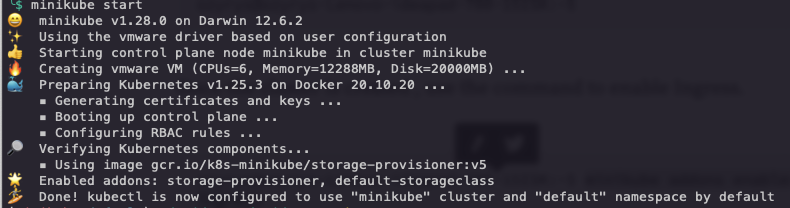
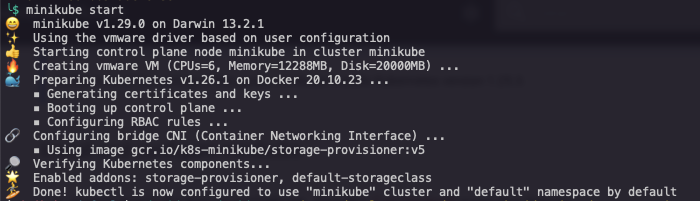
updating documents to reflect latest versions (#471)

Changed region(s): [[0.0, 0.0, 0.99, 1.0]]

diff --git a/docs/deployment/deployLocalOpenshift.md b/docs/deployment/deployLocalOpenshift.md
@@ -15,15 +15,15 @@ title: Deploy a Local Openshift Cluster
 Some customers are using Openshift as their platform for running Ping containerized applications.  If this is the case, access to an Openshift cluster is assumed.  Even in those cases, there are times where a local implementation of Openshift for development and testing is convenient.  
 
 !!! note "Platform"
-    For this guide, the Apple MacBook Pro platform is used, and the release of the _Red Hat Openshift Local_ offering is version 2.13.1
+    For this guide, the Apple MacBook Pro platform is used, and the release of the _Red Hat Openshift Local_ offering is version 2.15.0
 
-The [Openshift Local](https://access.redhat.com/documentation/en-us/red_hat_openshift_local/2.13) offering is used in this guide. This page was derived from the [documentation](https://access.redhat.com/documentation/en-us/red_hat_openshift_local/2.13/html/getting_started_guide/index) provided by Red Hat along with a workaround to a bug that has not yet been addressed regarding the Openshift client on the Apple Mac platform.
+The [Openshift Local](https://access.redhat.com/documentation/en-us/red_hat_openshift_local/2.15) offering is used in this guide. This page was derived from the [documentation](https://access.redhat.com/documentation/en-us/red_hat_openshift_local/2.15/html/getting_started_guide/index) provided by Red Hat along with a workaround to a bug that has not yet been addressed regarding the Openshift client on the Apple Mac platform.
 
 ## Prerequisites
 
 * Entitlement for Openshift code.  If you have registered for the Red Hat developer program, you can obtain your entitlement for the free trial [from the portal](https://developers.redhat.com/products/openshift/download) after logging in.
 * [kubectl](https://kubernetes.io/docs/tasks/tools/#kubectl)
-* [Openshift client (oc)](https://access.redhat.com/documentation/en-us/openshift_container_platform/4.11/html-single/cli_tools/index#cli-getting-started)
+* [Openshift client (oc)](https://access.redhat.com/documentation/en-us/openshift_container_platform/4.12/html-single/cli_tools/index#cli-getting-started)
 * ports 80, 443 and 6443 available on machine. If you have Docker Desktop installed, you must either disable Kubernetes or stop Docker in order for the installation to work.
 * **sudo** privileges on your hosting environment
 
@@ -34,6 +34,15 @@ The [Openshift Local](https://access.redhat.com/documentation/en-us/red_hat_open
 1. With the `crc` utility installed, configure settings.  Provide as much RAM and CPU as you can, depending on your system.  In this example, 16 GB of RAM, 7 vCPUs, and a disk size of 80GB are set.  The consent-telemetry is optional, depending on whether you consent to usage data metrics being sent to Red Hat.
 
     ```txt
+    # Version information
+    crc version
+
+    # Output
+    CRC version: 2.15.0+72256c3c
+    OpenShift version: 4.12.5
+    Podman version: 4.3.1
+
+    # Set configuration
     crc config set memory 16384
     crc config set cpus 7
     crc config set consent-telemetry no
@@ -54,25 +63,24 @@ The [Openshift Local](https://access.redhat.com/documentation/en-us/red_hat_open
     crc setup
 
     # Output
-    INFO Using bundle path /Users/davidross/.crc/cache/crc_vfkit_4.11.18_amd64.crcbundle
+    INFO Using bundle path https://storage.googleapis.com/crc-bundle-github-ci/4.12.5/crc_vfkit_4.12.5_amd64.crcbundle
     INFO Checking if running as non-root
     INFO Checking if crc-admin-helper executable is cached
-    INFO Checking for obsolete admin-helper executable
     INFO Checking if running on a supported CPU architecture
     INFO Checking minimum RAM requirements
     INFO Checking if crc executable symlink exists
-    INFO Creating symlink for crc executable
     INFO Checking if running emulated on a M1 CPU
     INFO Checking if vfkit is installed
     INFO Checking if CRC bundle is extracted in '$HOME/.crc'
-    INFO Checking if /Users/davidross/.crc/cache/crc_vfkit_4.11.18_amd64.crcbundle exists
+    INFO Checking if https://storage.googleapis.com/crc-bundle-github-ci/4.12.5/crc_vfkit_4.12.5_amd64.crcbundle exists
     INFO Getting bundle for the CRC executable
-    INFO Downloading bundle: /Users/davidross/.crc/cache/crc_vfkit_4.11.18_amd64.crcbundle...
-    3.15 GiB / 3.15 GiB [------------------------------------------] 100.00% 46.12 MiB p/s
-    INFO Uncompressing /Users/davidross/.crc/cache/crc_vfkit_4.11.18_amd64.crcbundle
-    crc.img: 31.00 GiB / 31.00 GiB [-------------------------------] 100.00%
+    INFO Downloading bundle: https://storage.googleapis.com/crc-bundle-github-ci/4.12.5/crc_vfkit_4.12.5_amd64.crcbundle...
+    3.07 GiB / 3.07 GiB [--------------------------------------------------------------->] 99.88% 11.39 MiB p/s
+    INFO Uncompressing /Users/davidross/.crc/cache/crc_vfkit_4.12.5_amd64.crcbundle
+    crc.img:  31.00 GiB / 31.00 GiB [-----------------------------------------------------------------] 100.00%
     INFO Checking if old launchd config for tray and/or daemon exists
     INFO Checking if crc daemon plist file is present and loaded
+    INFO Adding crc daemon plist file and loading it
     Your system is correctly setup for using CRC. Use 'crc start' to start the instance
     ```
 
@@ -85,7 +93,6 @@ The [Openshift Local](https://access.redhat.com/documentation/en-us/red_hat_open
  
     INFO Checking if running as non-root
     INFO Checking if crc-admin-helper executable is cached
-    INFO Checking for obsolete admin-helper executable
     INFO Checking if running on a supported CPU architecture
     INFO Checking minimum RAM requirements
     INFO Checking if crc executable symlink exists
@@ -93,11 +100,11 @@ The [Openshift Local](https://access.redhat.com/documentation/en-us/red_hat_open
     INFO Checking if vfkit is installed
     INFO Checking if old launchd config for tray and/or daemon exists
     INFO Checking if crc daemon plist file is present and loaded
-    INFO Loading bundle: crc_vfkit_4.11.18_amd64...
-    INFO Creating CRC VM for openshift 4.11.18...
+    INFO Loading bundle: crc_vfkit_4.12.5_amd64...
+    INFO Creating CRC VM for openshift 4.12.5...
     INFO Generating new SSH key pair...
     INFO Generating new password for the kubeadmin user
-    INFO Starting CRC VM for openshift 4.11.18...
+    INFO Starting CRC VM for openshift 4.12.5...
     INFO CRC instance is running with IP 127.0.0.1
     INFO CRC VM is running
     INFO Updating authorized keys...
@@ -135,24 +142,24 @@ The [Openshift Local](https://access.redhat.com/documentation/en-us/red_hat_open
     ERRO Cluster is not ready: cluster operators are still not stable after 10m0.746213711s
     INFO Adding crc-admin and crc-developer contexts to kubeconfig...
     Started the OpenShift cluster.
-    
+
     The server is accessible via web console at:
       https://console-openshift-console.apps-crc.testing
-    
+
     Log in as administrator:
       Username: kubeadmin
       Password: 3hT2A-JJv5U-VAJia-RNpSs
-    
+
     Log in as user:
       Username: developer
       Password: developer
-    
+
     Use the 'oc' command line interface:
       $ eval $(crc oc-env)
       $ oc login -u developer https://api.crc.testing:6443
     ```
 
-    Depending on the speed of your system, this will take 8 to 15 minutes.  There is a 10 minute timeout on checking the stability of operators deployed by Openshift.  It might be the case that the tool reports these have not reached full stability in that window.  In the writing of this guide, no issues were found using Openshift deployed in this manner, even if the error occurs.  Each time these steps were tested, everything eventually reached a healthy status, but just not in the window expected.  You can see this error at the end of the output displayed above (Cluster is not ready).
+    Depending on the speed of your system, this will take 8 to 15 minutes.  There is a 10 minute timeout on checking the stability of operators deployed by Openshift.  It might be the case that the tool reports these have not reached full stability in that window.  In the writing of this guide, no issues were found using Openshift deployed in this manner, even if the error occurs.  Each time these steps were tested, everything eventually reached a healthy status, but just not in the window expected on some occasions.  You can see this error at the end of the output displayed above (`Cluster is not ready`).
 
 ### Mac bug workaround
 
@@ -167,7 +174,7 @@ The [Openshift Local](https://access.redhat.com/documentation/en-us/red_hat_open
 
     The workaround to this error is to trust two certificates in the Apple Keychain Access utility.
 
-2.  Login to the web console as **kubeadmin**, using the credentials displayed when starting the instance.  If necessary, you can run `crc console --credentials` to display them again.  The console url is [https://console-openshift-console.apps-crc.testing](https://console-openshift-console.apps-crc.testing).
+2. Login to the web console as **kubeadmin**, using the credentials displayed when starting the instance.  If necessary, you can run `crc console --credentials` to display them again.  The console url is [https://console-openshift-console.apps-crc.testing](https://console-openshift-console.apps-crc.testing).
 
     * In the web console, select the **Administrator** role from the top of the left navigation bar.
     * Navigate to **Workloads** > **Secrets** and filter for **external-loadbalancer-serving-certkey**.  It will be in the **openshift-kube-api** server project (namespace).

diff --git a/docs/get-started/getStartedExample.md b/docs/get-started/getStartedExample.md
@@ -7,7 +7,7 @@ title: Deploy an Example Stack
     A video demonstration of this example is available [here](https://videos.pingidentity.com/detail/videos/devops/video/6313575361112/getting-started-walkthrough).
 
 !!! note "Version"
-    This example was written using Docker Desktop with Kubernetes enabled on the Mac platform.  The version used for this guide was `4.16.1 (95567)`, which includes Docker Engine `v20.10.22` and Kubernetes `v1.25.4`.  The ingress-nginx controller version was `1.5.1`.
+    This example was written using Docker Desktop with Kubernetes enabled on the Mac platform.  The version used for this guide was `4.17.0 (99724)`, which includes Docker Engine `v20.10.23` and Kubernetes `v1.25.4`.  The ingress-nginx controller version was `1.6.4`.
 
 !!! note "Kubernetes Services Kubernetes versus Server-Deployed Applications"
 
@@ -106,8 +106,9 @@ After using Git to clone the `pingidentity-devops-getting-started` repository, y
         Sample output:
 
          ```text
+         Release "demo" does not exist. Installing it now.
          NAME: demo
-         LAST DEPLOYED: Tue Jan 17 09:18:49 2023
+         LAST DEPLOYED: Tue Mar 14 13:42:13 2023
          NAMESPACE: pinghelm
          STATUS: deployed
          REVISION: 1
@@ -116,30 +117,30 @@ After using Git to clone the `pingidentity-devops-getting-started` repository, y
          #-------------------------------------------------------------------------------------
          # Ping DevOps
          #
-         # Description: Ping Identity helm charts - 1/03/2023
+         # Description: Ping Identity helm charts - 3/03/2023
          #-------------------------------------------------------------------------------------
          #
          #           Product          tag   typ  #  cpu R/L   mem R/L  Ing
          #    --------------------- ------- --- -- --------- --------- ---
-         #    global                2212              0/0       0/0     √ 
+         #    global                2302              0/0       0/0     √
          #
-         #  √ pingaccess-admin      2212               /         /        
-         #  √ pingaccess-engine     2212               /         /        
-         #  √ pingauthorize         2212               /         /        
-         #    pingauthorizepap                                            
-         #    pingcentral                                                 
-         #  √ pingdataconsole       2212               /         /        
-         #    pingdatasync                                                
-         #    pingdelegator                                               
-         #  √ pingdirectory         2212               /         /        
-         #    pingdirectoryproxy                                          
-         #  √ pingfederate-admin    2212               /         /        
-         #  √ pingfederate-engine   2212               /         /        
-         #    pingintelligence                                            
+         #  √ pingaccess-admin      2302    sts  1    0/2     1Gi/4Gi   √
+         #  √ pingaccess-engine     2302    dep  1    0/2     1Gi/4Gi   √
+         #  √ pingauthorize         2302    dep  1    0/2    1.5G/4Gi   √
+         #    pingauthorizepap
+         #    pingcentral
+         #  √ pingdataconsole       2302    dep  1    0/2    .5Gi/2Gi   √
+         #    pingdatasync
+         #    pingdelegator
+         #  √ pingdirectory         2302    sts  1  50m/2     2Gi/8Gi   √
+         #    pingdirectoryproxy
+         #  √ pingfederate-admin    2302    dep  1    0/2     1Gi/4Gi   √
+         #  √ pingfederate-engine   2302    dep  1    0/2     1Gi/4Gi   √
+         #    pingintelligence
          #
-         #    ldap-sdk-tools                                              
-         #    pd-replication-timing                                       
-         #    pingtoolkit                                                 
+         #    ldap-sdk-tools
+         #    pd-replication-timing
+         #    pingtoolkit
          #
          #-------------------------------------------------------------------------------------
          # To see values info, simply set one of the following on your helm install/upgrade
@@ -147,7 +148,7 @@ After using Git to clone the `pingidentity-devops-getting-started` repository, y
          #    --set help.values=all         # Provides all (i.e. .Values, .Release, .Chart, ...) yaml
          #    --set help.values=global      # Provides global values
          #    --set help.values={ image }   # Provides image values merged with global
-         #-------------------------------------------------------------------------------------        
+         #-------------------------------------------------------------------------------------
          ```
 
         As you can see, PingAccess Admin and Engine, PingData Console, PingDirectory, PingAuthorize, and the PingFederate Admin and Engine are deployed from the provided `everything.yaml` values file.

diff --git a/docs/deployment/deployLocalK8sCluster.md b/docs/deployment/deployLocalK8sCluster.md
@@ -151,14 +151,14 @@ In this section, a minikube installation with ingress is created.  Minikube is s
 * Container or virtual machine manager, such as: [Docker](https://minikube.sigs.k8s.io/docs/drivers/docker/), [QEMU](https://minikube.sigs.k8s.io/docs/drivers/qemu/), [Hyperkit](https://minikube.sigs.k8s.io/docs/drivers/hyperkit/), [Hyper-V](https://minikube.sigs.k8s.io/docs/drivers/hyperv/), [KVM](https://minikube.sigs.k8s.io/docs/drivers/kvm2/), [Parallels](https://minikube.sigs.k8s.io/docs/drivers/parallels/), [Podman](https://minikube.sigs.k8s.io/docs/drivers/podman/), [VirtualBox](https://minikube.sigs.k8s.io/docs/drivers/virtualbox/), or [VMware Fusion/Workstation](https://minikube.sigs.k8s.io/docs/drivers/vmware/)
 * [kubectl](https://kubernetes.io/docs/tasks/tools/#kubectl)
 
-!!! note "Kubernetes Version"
-    At the time of the writing of this guide, minikube installs Kubernetes version 1.25.3.
+!!! note "Minikube and Kubernetes Version"
+    At the time of the writing of this guide, minikube was version 1.29.0, which installs Kubernetes version 1.26.1.
 
 ### Install and configure minikube
 
 1. Install minikube for your platform.  See the [Get Started!](https://minikube.sigs.k8s.io/docs/start/) page for details.
 
-1. Configure the minikube resources and virtualization driver.  For example, the following was used on an Apple Macbook Pro with VMware Fusion installed as the backing platform:
+1. Configure the minikube resources and virtualization driver.  For example, the following options were used on an Apple Macbook Pro with VMware Fusion installed as the backing platform:
 
     ```sh
     minikube config set cpus 6
@@ -194,14 +194,14 @@ In this section, a minikube installation with ingress is created.  Minikube is s
     kubectl version --short
 
     < output clipped >
-    Server Version: v1.25.3
+    Server Version: v1.26.1
 
     ------------------
 
     kubectl get nodes
 
     NAME       STATUS   ROLES           AGE     VERSION
-    minikube   Ready    control-plane   6m55s   v1.25.3
+    minikube   Ready    control-plane   4m7s   v1.26.1
     ```
 
 ### Enable ingress
@@ -371,7 +371,7 @@ You can also pause and unpause the cluster:
 minikube pause
 minikube unpause
 ```
-Alternatively, you can delete the minikube environment, which will require reconfiguration the next time you start.
+Alternatively, you can delete the minikube environment, which will recreate the VM the next time.
 
 ```sh
 minikube delete 
